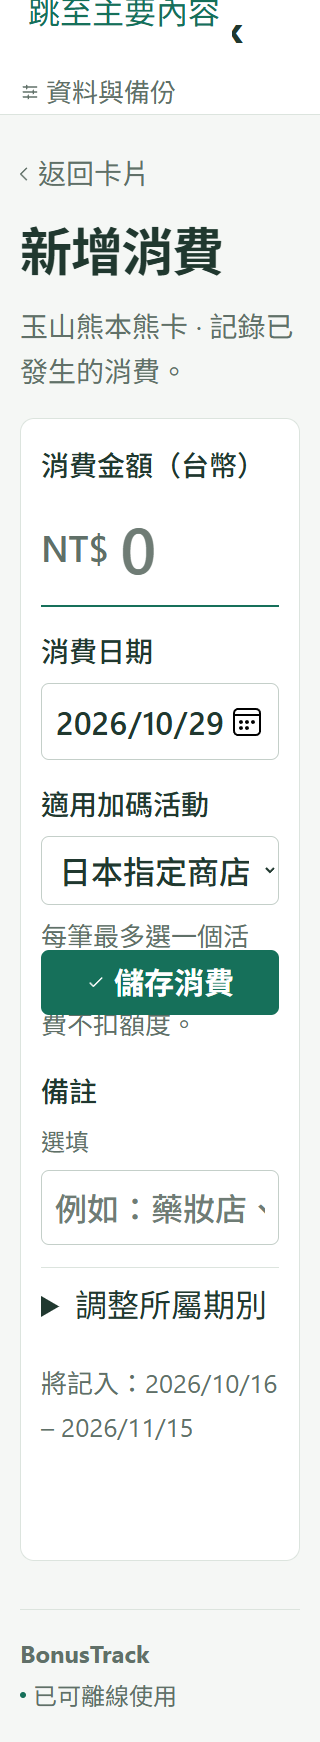
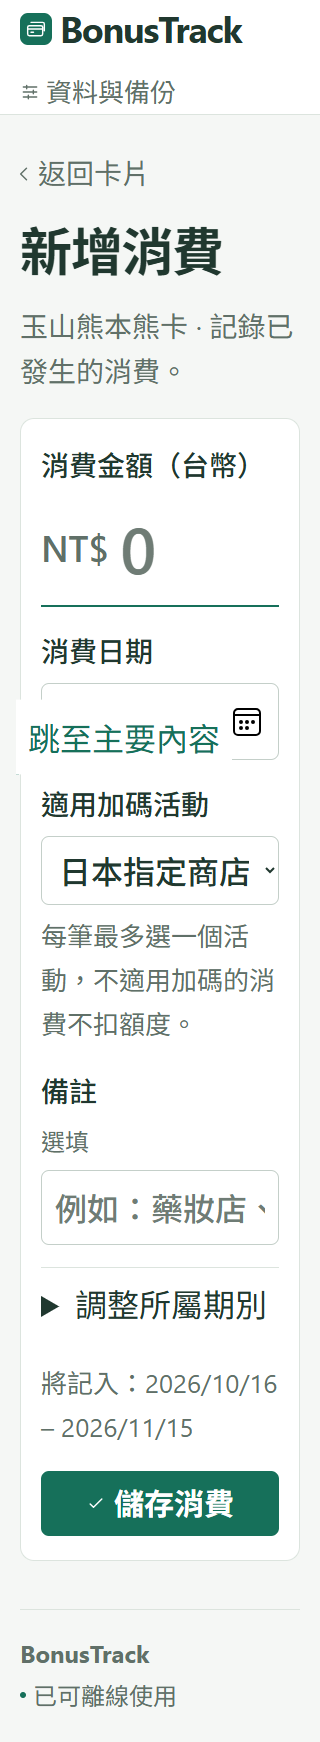
fix(purchase): 修正消費表單手機版對齊與儲存按鈕遮擋
src/style.css：限制消費表單 Grid 寬度，取消手機儲存區黏附定位。

src/views/PurchaseForm.vue：新增消費表單專用樣式掛點。

tests/e2e/layout.spec.ts：新增六種寬度、新增與編輯、捲動、驗證及額度更新檢查。

DESIGN.md：記錄消費表單寬度與儲存區排版規則。

.impeccable/review/purchase-form-create-390.png：新增手機新增消費截圖。

.impeccable/review/purchase-form-edit-390.png：新增手機編輯消費截圖。

.impeccable/review/text-200.png：更新放大文字排版截圖。

docs/spectra/changes/archive/2026-11-04-purchase-form-mobile-layout/.openspec.yaml：保存變更建立與歸檔資訊。

docs/spectra/changes/archive/2026-11-04-purchase-form-mobile-layout/proposal.md：歸檔問題與修正範圍。

docs/spectra/changes/archive/2026-11-04-purchase-form-mobile-layout/design.md：歸檔排版決策與驗收條件。

docs/spectra/changes/archive/2026-11-04-purchase-form-mobile-layout/specs/bonus-tracking/spec.md：保留響應式表單與無遮擋儲存規格增量。

docs/spectra/changes/archive/2026-11-04-purchase-form-mobile-layout/tasks.md：記錄四項任務完成狀態。

docs/spectra/specs/bonus-tracking/spec.md：同步兩項消費表單操作要求。

docs/verification/purchase-form-mobile-layout.md：記錄建置與兩項 E2E 通過，以及 iPhone 實機待驗證限制。

diff --git a/tests/e2e/layout.spec.ts b/tests/e2e/layout.spec.ts
@@ -1,5 +1,85 @@
 import { test, expect } from '@playwright/test'
 
+test('purchase form stays aligned and saves without floating over fields in creation and editing', async ({ page }) => {
+  await page.clock.install({ time: new Date('2026-11-04T12:00:00+08:00') })
+  await page.goto('/#/settings')
+  const data = {
+    schemaVersion: 1, exportedAt: '2026-11-04T04:00:00Z',
+    cards: [{ id: 'layout', name: '排版測試卡', cycleMode: 'calendar-month', closingDay: null, archived: false }],
+    activities: [{ id: 'bonus', cardId: 'layout', name: '一般加碼', rewardCapMinor: 50000, bonusRateBasisPoints: 600, archived: false }],
+    transactions: [],
+  }
+  await page.getByLabel('選擇 JSON 備份').setInputFiles({ name: 'purchase-layout.json', mimeType: 'application/json', buffer: Buffer.from(JSON.stringify(data)) })
+  page.once('dialog', dialog => dialog.accept())
+  await page.getByRole('button', { name: '確認取代全部資料' }).click()
+  await expect(page.getByText('備份已還原，額度已重新計算', { exact: true })).toBeVisible()
+  await page.goto('/#/cards/layout/purchases/new')
+
+  for (const mode of ['create', 'edit']) {
+    const amount = page.getByLabel('消費金額（台幣）', { exact: true })
+    const date = page.getByLabel('消費日期')
+    const activity = page.getByLabel('適用加碼活動')
+    const note = page.getByLabel('備註')
+    const save = page.getByRole('button', { name: mode === 'create' ? '儲存消費' : '儲存變更', exact: true })
+    await amount.fill(mode === 'create' ? '100' : '200')
+    await date.fill('2026-11-04')
+    await activity.selectOption('activity:bonus')
+    await note.fill(`排版-${mode}`)
+    await page.getByText('調整所屬期別', { exact: true }).click()
+    for (const width of [320, 375, 390, 430, 768, 1280]) {
+      await page.setViewportSize({ width, height: 480 })
+      await expect(amount).toHaveValue(mode === 'create' ? '100' : '200')
+      await expect(date).toHaveValue('2026-11-04')
+      await expect(note).toHaveValue(`排版-${mode}`)
+      const bounds = await Promise.all([date, activity, note].map(control => control.boundingBox()))
+      for (const box of bounds) {
+        expect(box).not.toBeNull()
+        expect(Math.abs(box!.x - bounds[0]!.x)).toBeLessThanOrEqual(1)
+        expect(Math.abs(box!.x + box!.width - bounds[0]!.x - bounds[0]!.width)).toBeLessThanOrEqual(1)
+      }
+      expect(await page.evaluate(() => document.documentElement.scrollWidth <= window.innerWidth)).toBe(true)
+      expect(await page.locator('form').evaluate(el => el.scrollWidth <= el.clientWidth)).toBe(true)
+      await note.focus()
+      await note.scrollIntoViewIfNeeded()
+      const noteBox = (await note.boundingBox())!
+      const saveBox = (await save.boundingBox())!
+      expect(saveBox.y).toBeGreaterThanOrEqual(noteBox.y + noteBox.height)
+      const before = await save.evaluate(el => ({ y: el.getBoundingClientRect().y, scroll: window.scrollY }))
+      await save.scrollIntoViewIfNeeded()
+      const after = await save.evaluate(el => ({ y: el.getBoundingClientRect().y, scroll: window.scrollY }))
+      expect(Math.abs((before.y - after.y) - (after.scroll - before.scroll))).toBeLessThanOrEqual(1)
+      expect(await page.locator('.form-actions').evaluate(el => getComputedStyle(el).position)).toBe('static')
+      expect((await save.boundingBox())!.height).toBeGreaterThanOrEqual(48)
+      if (width === 390) await page.screenshot({ path: `.impeccable/review/purchase-form-${mode}-390.png`, fullPage: true })
+    }
+    await page.setViewportSize({ width: 390, height: 480 })
+    await amount.fill('0')
+    await save.click()
+    await expect(page.getByRole('alert')).toBeVisible()
+    await page.getByRole('alert').scrollIntoViewIfNeeded()
+    expect((await page.getByRole('alert').boundingBox())!.y).toBeLessThan((await save.boundingBox())!.y)
+    await expect(note).toHaveValue(`排版-${mode}`)
+    await amount.fill(mode === 'create' ? '100' : '200')
+    await date.fill('2026-11-05')
+    await save.click()
+    expect(await date.evaluate(el => (el as HTMLInputElement).validity.rangeOverflow)).toBe(true)
+    await date.fill('2026-11-04')
+    await save.click()
+    await expect(page.locator('.activity-panel .amount')).toContainText(mode === 'create' ? '8,233' : '8,133')
+    await expect(page.locator('.purchase-list li')).toHaveCount(1)
+    await expect(page.locator('.purchase-list')).toContainText(`排版-${mode}`)
+    await page.reload()
+    await expect(page.locator('.activity-panel .amount')).toContainText(mode === 'create' ? '8,233' : '8,133')
+    if (mode === 'create') await page.getByRole('link', { name: '編輯 2026-11-04 消費', exact: true }).click()
+  }
+  for (const route of ['/cards/layout/edit', '/cards/layout/activities/bonus/edit']) {
+    await page.goto(`/#${route}`)
+    expect(await page.locator('.form-actions').evaluate(el => getComputedStyle(el).position)).toBe('sticky')
+  }
+  await page.goto('/#/cards/layout')
+  expect(await page.locator('.mobile-action').evaluate(el => getComputedStyle(el).position)).toBe('sticky')
+})
+
 test('RWD keeps card data and form actions usable at all target sizes and enlarged text', async ({ page }) => {
   await page.clock.install({ time: new Date('2026-10-29T12:00:00+08:00') })
   const data = {

diff --git a/src/views/PurchaseForm.vue b/src/views/PurchaseForm.vue
@@ -32,7 +32,7 @@ async function save() {
   <section class="form-page">
     <RouterLink class="back-link" :to="`/cards/${cardId}`"><Icon name="back" />返回卡片</RouterLink>
     <h1>{{ existing ? '編輯消費' : '新增消費' }}</h1><p class="lead">{{ card?.name }} · 記錄已發生的消費。</p>
-    <form class="form-sheet" @submit.prevent="save" @input="dirty" @change="dirty">
+    <form class="form-sheet purchase-form" @submit.prevent="save" @input="dirty" @change="dirty">
       <label class="amount-field">消費金額（台幣）<div class="money-input"><span>NT$</span><input v-model="amount" inputmode="decimal" required placeholder="0" autocomplete="off" aria-label="消費金額（台幣）" /></div></label>
       <label>消費日期<input type="date" v-model="spentOn" :max="state.today" min="1900-01-01" required /></label>
       <label>適用加碼活動<select v-model="activitySelection" required><option disabled value="">請選擇活動</option><option v-for="activity in activities" :key="activity.id" :value="`activity:${activity.id}`">{{ activity.name }} · +{{ activity.bonusRateBasisPoints / 100 }}%{{ activity.archived ? '（已封存）' : '' }}</option><option value="unassigned">不適用加碼</option></select><span class="field-help">每筆最多選一個活動，不適用加碼的消費不扣額度。</span></label>

diff --git a/src/style.css b/src/style.css
@@ -75,6 +75,7 @@ textarea { resize: vertical; }
 .back-link:hover { color: var(--accent); }
 .form-page { max-width: 600px; margin: 0 auto; }
 .form-sheet { margin-top: 32px; background: var(--surface); border: 1px solid var(--line); border-radius: var(--radius); padding: 32px; display: grid; gap: 24px; }
+.purchase-form { grid-template-columns: minmax(0, 1fr); }
 label { display: flex; flex-direction: column; gap: 9px; font-size: .875rem; font-weight: 550; min-width: 0; }
 input:not([type='radio']), select, textarea { width: 100%; min-width: 0; max-width: 100%; min-height: 48px; padding: 11px 13px; border: 1px solid #c4cfc9; border-radius: var(--control-radius); background: white; font-size: 1rem; color: var(--ink); caret-color: var(--accent); }
 input::placeholder { color: #6f7c75; }
@@ -183,6 +184,7 @@ summary { min-height: 44px; padding: 10px 0; border-radius: 4px; }
   .period-select select { font-size: 1rem; }
   .section-heading { gap: 10px; flex-wrap: wrap; }
   .form-actions { position: sticky; bottom: 0; background: white; padding-bottom: env(safe-area-inset-bottom); }
+  .purchase-form .form-actions { position: static; }
   .info-strip { padding: 16px; }
 }
 @media (prefers-reduced-motion: reduce) { *, *::before, *::after { scroll-behavior: auto !important; transition: none !important; animation: none !important; } }

diff --git a/docs/spectra/changes/archive/2026-11-04-purchase-form-mobile-layout/design.md b/docs/spectra/changes/archive/2026-11-04-purchase-form-mobile-layout/design.md
@@ -1,0 +1,55 @@
+## Context
+
+本變更修復新增與編輯消費的手機表單。src/views/PurchaseForm.vue 使用原生 date input；src/style.css 的 .form-sheet 為 Grid，手機 .form-actions 為 sticky。通用控制項已有 border-box、width:100%、min-width:0、max-width:100%，所以日期溢出仍需 Safari 重現確認。現有 tests/e2e/layout.spec.ts 有頁面溢出與表單可用性檢查，但不構成 iPhone 原生鍵盤驗證；playwright.config.ts 目前使用 msedge。
+
+## Design Source
+
+來源為使用者本次提供的 FLOWOUT.jpg 缺陷截圖，原始位置 C:/Users/ray.chuang/Desktop/FLOWOUT.jpg。這是問題證據而非像素設計稿，無 .dc.html，因此沒有 HTML 快取。實作依既有 src/style.css 與 DESIGN.md，不從截圖估算尺寸。
+
+| 項目 | 確認的既有值與用途 |
+| --- | --- |
+| 手機表單水平內距 | 20px，沿用設計值 |
+| 控制項與主要按鈕最小高度 | 48px，沿用設計值 |
+| 手機表單間距 | 22px，沿用設計值 |
+| 儲存圖示 | Icon 的 check，保持不變 |
+
+## Goals / Non-Goals
+
+**Goals:**
+
+- 日期欄位隨可用寬度縮放，左右邊框與活動、備註一致。
+- 消費儲存動作位於表單末端，隨頁面捲動，不遮住輸入。
+- 保留原生日期選擇、驗證、儲存與額度更新。
+
+**Non-Goals:**
+
+- 不調整卡片詳情 .mobile-action，不將其他表單的動作位置一併改動。
+- 不改金額計算、期別規則、資料結構、套件或部署設定。
+- 不新增自訂日期選擇器或鍵盤偵測 JavaScript。
+
+## Decisions
+
+### 日期欄位限制在表單可用寬度
+
+消費表單明確使用可縮小的單欄 Grid，例如 minmax(0, 1fr)。若通用 .form-sheet 的變動會擴大範圍，優先在 PurchaseForm 加專用類別。保留原生 date input；在 Safari 重現後，僅對消費日期加入必要的外觀或內部日期文字寬度規則。既有控制項寬度規則已存在，不以重複加入相同規則宣稱解決。不用 overflow:hidden 隱藏溢出或焦點框。替代方案為自訂日曆，因成本與互動變更過大而不採用。
+
+### 儲存動作回到表單正常排版
+
+新增消費與編輯消費共用專用樣式，覆寫手機 sticky 為正常文件排版，保留滿寬按鈕。必要時加消費表單專用掛點，避免全域取消所有 .form-actions 的 sticky。動作仍在期別與錯誤訊息之後，保留底部留白與安全區空間。替代方案為鍵盤出現時隱藏按鈕，但偵測複雜且行為不穩定；本案接受必須捲到末端儲存的取捨。
+
+## Implementation Contract
+
+- 範圍：只改新增與編輯消費的排版及其驗證、設計文件；其他表單與卡片詳情動作保持既有行為。
+- 使用者行為：日期、活動與備註可完整操作且不造成水平捲動；儲存動作隨文件移動，鍵盤開啟時仍可捲動存取。
+- 介面與資料：保留 date input、spentOn 綁定、min、max、required、save 提交流程及既有按鈕狀態；不改 repository 資料格式或路由。
+- 失敗處理：必填與日期限制繼續攔截無效輸入，儲存錯誤仍顯示於按鈕之前，保留使用者輸入。
+- 自動化驗收：新增與編輯於指定寬度 320、375、390、430、768、1280 CSS px，頁面與表單均無水平溢出；比較日期、活動、備註邊框，左右差各不超過 1 CSS px（指定的次像素容差）。縮短視窗高度並捲動，確認按鈕為非 sticky/fixed，且不與可見欄位重疊；錯誤訊息和展開期別仍可存取。高度至少 48 CSS px 是指定驗收值。
+- 手動驗收：實際 iPhone 瀏覽器開關鍵盤、選日期、輸入備註、橫向及直向捲動到儲存；記錄機型、OS、瀏覽器版本和結果。msedge 或 WebKit 模擬皆不得代稱實機通過；缺少設備時記錄待驗證。
+- 檢查命令：npm run typecheck、npm run build、npm run test:e2e -- tests/e2e/layout.spec.ts；建置後才執行依賴 preview 的 E2E。
+
+## Risks / Trade-offs
+
+- iOS 原生 date 尺寸與內部樣式差異 → Safari 重現後採最小修正，不提前認定根因。
+- 共用選擇器影響其他頁面 → 採消費表單限定掛點並回查卡片、活動表單及詳情動作。
+- 按鈕不再常駐 → 以表單末端滿寬動作與留白提供清楚完成位置。
+- 無實機 → 確實標記鍵盤與日期控制項待驗證，不以自動化替代證據。

diff --git a/docs/verification/purchase-form-mobile-layout.md b/docs/verification/purchase-form-mobile-layout.md
@@ -1,0 +1,45 @@
+# 消費表單手機排版驗證
+
+日期：2026-11-04。變更：purchase-form-mobile-layout。
+
+## 實作與限制
+
+- 消費表單新增 purchase-form 樣式掛點，單欄 Grid 使用 minmax(0, 1fr)，避免軌道由內容的固有尺寸撐開。
+- 僅消費表單的手機儲存區改成 position: static；保留底部安全區留白、滿寬按鈕及原生日期 input。
+- 沒有 .codegraph 索引，因此依專案指引略過 CodeGraph。沒有新增套件或修改日期、儲存、期別及額度計算邏輯。
+- 使用者 FLOWOUT.jpg 為 iPhone 溢出與遮擋證據；本機未能重現 Safari 特有溢出，不能宣稱已確認其根因，也未加入未驗證的 WebKit 私有控制項樣式。
+
+## 自動化結果
+
+以下命令均退出 0：
+
+- npm run typecheck
+- npm run build（含 PWA 產物生成）
+- npm run test:e2e -- tests/e2e/layout.spec.ts：2 passed (45.1s)
+- git diff --check
+
+執行環境為專案 Playwright 的 msedge channel（Chromium），不是 iOS Safari。測試使用 480 CSS px 高的短視窗；這只驗證較小可視區域，不會啟動手機作業系統鍵盤。
+
+| 行為 | 測試證據 |
+| --- | --- |
+| 新增／編輯日期、活動、備註欄位對齊 | purchase form stays aligned and saves without floating over fields in creation and editing：320、375、390、430、768、1280 CSS px 邊框差各不超過 1 CSS px，頁面及表單無水平溢出 |
+| 捲動及儲存不浮在欄位上 | 同測試：短視窗聚焦備註，儲存位於其下方；捲動前後按鈕位置變化符合文件捲動量，且非黏附定位，高度至少 48 CSS px |
+| 旋轉／resize 後輸入保留 | 同測試：逐一縮放後金額、日期及備註保持不變 |
+| 錯誤與日期限制 | 同測試：金額 0 顯示錯誤並保留備註；未來日期觸發 rangeOverflow；錯誤位於儲存之前 |
+| 新增與編輯保存 | 同測試：100 元後額度 8,233，改成 200 元後額度 8,133；重新載入仍保持一筆紀錄與備註 |
+| 其他動作位置保持原狀 | 同測試：卡片／活動表單 .form-actions 及詳情 .mobile-action 仍為 sticky |
+| 既有 RWD 與放大文字 | RWD keeps card data and form actions usable at all target sizes and enlarged text 通過 |
+
+視覺檢查：已檢視 .impeccable/review/purchase-form-create-390.png；日期、活動、備註左右對齊，期別與末端按鈕可見。編輯截圖為 .impeccable/review/purchase-form-edit-390.png。瀏覽器檢視工具因本機模組缺失無法連線，截圖由既有 Playwright 測試產生。
+
+## iPhone 實機待驗證
+
+目前未取得可控制的實際 iPhone；以下未執行，不視為通過。機型、iOS 版本、瀏覽器名稱及版本均待實機操作時填寫。
+
+- 新增與編輯皆檢查：直向及橫向日期欄位不超出表單、左右對齊，無水平捲動。
+- 開啟原生日期選擇器，選取日期並確認值更新及未來日期限制。
+- 開啟金額與備註鍵盤，確認能捲到所有欄位及末端按鈕，按鈕沒有浮在欄位上。
+- 展開期別、輸入無效金額、修正錯誤並儲存，確認錯誤提示可讀且資料與額度更新。
+- 收起鍵盤後確認畫面和捲動正常，並檢查底部安全區留白。
+
+部署端尚未更新或驗證。實機檢查應使用載入本次建置的版本，避免舊 PWA 快取影響判讀。

diff --git a/docs/spectra/specs/bonus-tracking/spec.md b/docs/spectra/specs/bonus-tracking/spec.md
@@ -790,3 +790,33 @@ The system SHALL expose a red "刪除卡片" action in settings only when no pur
 
 - **WHEN** persistence fails during confirmed deletion of an unreferenced card
 - **THEN** the system SHALL show an alert, retain the card, activities and draft on settings, preserve dirty state, re-enable actions when the operation ends, and permit a confirmed retry
+
+---
+### Requirement: Responsive purchase form access
+
+The system SHALL allow users to create and edit purchases without horizontal page or form scrolling at supported phone, tablet, and desktop widths. The purchase date SHALL remain a native date control and SHALL remain fully operable within the form. Purchase validation, date restrictions, and persistence behavior SHALL remain unchanged.
+
+#### Scenario: Enter a purchase on a narrow screen
+
+- **WHEN** a user opens purchase creation or editing on a phone and enters an amount, selects a date and activity, and enters a note
+- **THEN** every control SHALL remain within the available form width and SHALL be operable without horizontal scrolling
+
+#### Scenario: Continue editing after resizing
+
+- **WHEN** a user changes orientation or resizes a purchase form between phone, tablet, and desktop widths
+- **THEN** the form SHALL retain entered values and SHALL allow date selection and purchase submission without horizontal scrolling
+
+---
+### Requirement: Unobstructed purchase submission
+
+The system SHALL place the purchase save action after the period controls and any error message in normal document flow. The action SHALL scroll with the form rather than remain attached to the viewport. Users SHALL be able to scroll to and operate all purchase fields and the save action while the on-screen keyboard is open.
+
+#### Scenario: Fill fields with the phone keyboard open
+
+- **WHEN** a user focuses an amount or note field in purchase creation or editing and the on-screen keyboard opens
+- **THEN** the save action SHALL NOT float over the visible fields, and the user SHALL be able to scroll to every field and the save action
+
+#### Scenario: Review validation and submit
+
+- **WHEN** a user expands the period controls or receives a purchase validation error
+- **THEN** the period controls and error message SHALL remain reachable before the save action, and correcting the input SHALL allow the existing save flow to complete

diff --git a/docs/spectra/changes/archive/2026-11-04-purchase-form-mobile-layout/tasks.md b/docs/spectra/changes/archive/2026-11-04-purchase-form-mobile-layout/tasks.md
@@ -1,0 +1,9 @@
+## 1. 修正消費表單
+
+- [x] 1.1 實作「日期欄位限制在表單可用寬度」以滿足 Responsive purchase form access：在 src/style.css 與必要的 src/views/PurchaseForm.vue 專用掛點限制 Grid 與原生日期欄位，保留 spentOn、日期驗證及儲存流程；用新增與編輯表單在 320、375、390、430、768、1280 CSS px 比較日期、活動、備註左右邊框差各不超過 1 CSS px，並確認表單及頁面無水平溢出。先檢查 .codegraph 是否存在；存在時修改前執行 codegraph_impact，不存在則記錄略過。Safari 無法重現時記錄已知證據與限制。
+- [x] 1.2 [after: 1.1] 實作「儲存動作回到表單正常排版」以滿足 Unobstructed purchase submission：只取消消費表單的黏附動作，保留滿寬、至少 48 CSS px 高的按鈕及末端留白；縮短可視高度並捲動新增與編輯表單，確認按鈕非 sticky/fixed，期別、錯誤與欄位可存取且不被按鈕覆蓋。回查卡片、活動表單及卡片詳情 .mobile-action，確認未被本次樣式改動影響。
+
+## 2. 驗證與交接
+
+- [x] 2.1 [after: 1.2] 擴充 tests/e2e/layout.spec.ts，驗證 Responsive purchase form access 與 Unobstructed purchase submission 的新增、編輯、指定寬度、縮短高度、展開期別與錯誤修正後儲存情境；檢查保存後資料與額度更新、resize 後輸入保留，使用邊框量測及捲動前後位置確認無溢出與浮動遮擋。執行 npm run typecheck、npm run build，再執行 npm run test:e2e -- tests/e2e/layout.spec.ts，記錄結果與瀏覽器引擎；這些檢查不代替實機鍵盤驗證。
+- [x] 2.2 [after: 2.1] 在 docs/verification/purchase-form-mobile-layout.md 記錄實際 iPhone 機型、OS、瀏覽器版本及直向／橫向、鍵盤開關、原生日期選擇、備註輸入、展開期別與錯誤後重試的結果，新增與編輯皆須能捲到儲存且無遮擋；若無設備，明確保留待驗證項目而不宣稱通過。更新 DESIGN.md 描述消費表單正常排版的儲存位置，內容審閱確認未將此規則推廣到其他表單，且驗證紀錄清楚區分自動化、實機與未驗證範圍。

diff --git a/docs/spectra/changes/archive/2026-11-04-purchase-form-mobile-layout/specs/bonus-tracking/spec.md b/docs/spectra/changes/archive/2026-11-04-purchase-form-mobile-layout/specs/bonus-tracking/spec.md
@@ -1,0 +1,29 @@
+## ADDED Requirements
+
+### Requirement: Responsive purchase form access
+
+The system SHALL allow users to create and edit purchases without horizontal page or form scrolling at supported phone, tablet, and desktop widths. The purchase date SHALL remain a native date control and SHALL remain fully operable within the form. Purchase validation, date restrictions, and persistence behavior SHALL remain unchanged.
+
+#### Scenario: Enter a purchase on a narrow screen
+
+- **WHEN** a user opens purchase creation or editing on a phone and enters an amount, selects a date and activity, and enters a note
+- **THEN** every control SHALL remain within the available form width and SHALL be operable without horizontal scrolling
+
+#### Scenario: Continue editing after resizing
+
+- **WHEN** a user changes orientation or resizes a purchase form between phone, tablet, and desktop widths
+- **THEN** the form SHALL retain entered values and SHALL allow date selection and purchase submission without horizontal scrolling
+
+### Requirement: Unobstructed purchase submission
+
+The system SHALL place the purchase save action after the period controls and any error message in normal document flow. The action SHALL scroll with the form rather than remain attached to the viewport. Users SHALL be able to scroll to and operate all purchase fields and the save action while the on-screen keyboard is open.
+
+#### Scenario: Fill fields with the phone keyboard open
+
+- **WHEN** a user focuses an amount or note field in purchase creation or editing and the on-screen keyboard opens
+- **THEN** the save action SHALL NOT float over the visible fields, and the user SHALL be able to scroll to every field and the save action
+
+#### Scenario: Review validation and submit
+
+- **WHEN** a user expands the period controls or receives a purchase validation error
+- **THEN** the period controls and error message SHALL remain reachable before the save action, and correcting the input SHALL allow the existing save flow to complete

diff --git a/docs/spectra/changes/archive/2026-11-04-purchase-form-mobile-layout/proposal.md b/docs/spectra/changes/archive/2026-11-04-purchase-form-mobile-layout/proposal.md
@@ -1,0 +1,34 @@
+## Problem
+
+iPhone 消費表單的日期欄位向右溢出，與活動、備註欄位的左右留白不一致。手機鍵盤開啟時，儲存消費按鈕浮在欄位上，妨礙輸入與閱讀。
+
+## Root Cause
+
+src/style.css 的手機版 .form-actions 使用 position: sticky 與 bottom: 0，會讓表單末端動作黏附於可視區域。日期欄位已有 width、min-width、max-width 與 border-box；截圖證明溢出，但 iOS 原生日期控制項與 Grid 自動尺寸的實際作用尚需 Safari 重現，不能視為已確認根因。
+
+## Proposed Solution
+
+- 限制消費表單 Grid 和日期控制項的可用寬度，保留原生日期選擇器，使日期、活動、備註邊框對齊。
+- 消費表單的儲存動作回到文件正常排版，位於期別、錯誤訊息之後並隨頁面捲動。
+- 維持既有手機表單左右各 20px 內距與按鈕至少 48px 高度；這些是沿用設計的驗收值，非效能估計。
+- Modified Capabilities: bonus-tracking，新增消費表單響應式寬度與不遮擋輸入的行為要求。
+- New Capabilities: 無。
+
+## Success Criteria
+
+- 指定驗收寬度 320、375、390、430、768、1280 CSS px 下，新增與編輯消費表單無水平溢出，日期、活動、備註邊框對齊。
+- 儲存動作位於表單末端且不黏附視窗；鍵盤開啟時可捲動存取全部欄位與按鈕。
+- 原生日期選擇、必填與未來日期限制、新增與編輯後的資料及額度更新維持正常。
+- 實機 iPhone 的瀏覽器版本、鍵盤開關與橫向檢查結果須記錄；未取得實機時明確標示待驗證。
+
+## Impact
+
+- Affected specs: docs/spectra/specs/bonus-tracking/spec.md
+- Affected code:
+  - Modified: src/style.css
+  - Modified: src/views/PurchaseForm.vue
+  - Modified: tests/e2e/layout.spec.ts
+  - Modified: DESIGN.md
+  - New: docs/verification/purchase-form-mobile-layout.md
+  - Removed: 無
+- 不新增套件，不變更資料結構或 API。

diff --git a/DESIGN.md b/DESIGN.md
@@ -135,7 +135,7 @@ components:
 
 分組以 8px、16px、24px、32px 的重複間距為基礎，同時保留來源中依元件設定的 10px、12px、20px、22px 等值。標題與主動作可在手機換行。長標題與金額使用可換行策略，不以省略號隱藏關鍵資料。
 
-手機內頁的新增動作使用底部 sticky 區，背景沿用頁面底並加入 `env(safe-area-inset-bottom)`。表單儲存區也保留安全區；不要將整頁截圖中的 sticky 元素重疊位置當作新的版面規則。
+手機卡片詳情的新增動作使用底部 sticky 區，背景沿用頁面底並加入 `env(safe-area-inset-bottom)`。新增與編輯消費的儲存區採正常文件排版，位於期別與錯誤訊息之後，隨表單捲動並保留安全區留白，避免鍵盤開啟時浮在欄位上；其他表單維持既有配置。
 
 ## Elevation & Depth
 
@@ -168,6 +168,8 @@ components:
 ### Inputs / Fields
 
 輸入框與 select 最小高度 48px、11px 13px padding、8px 圓角；標籤與輸入相隔 9px。一般輸入維持白底，disabled 使用 bg 底與 muted 文字。金額輸入的 NT$ 是輔助資訊，底部以 2px accent 線強調輸入區，不另加外框。
+
+消費表單使用 `minmax(0, 1fr)` 單欄 Grid，讓日期、活動與備註控制項隨表單可用寬度縮放。保留原生日期選擇器與手機左右各 20px 的表單內距，不用裁切溢出的方式隱藏欄位或焦點框。
 
 ### Navigation
 
